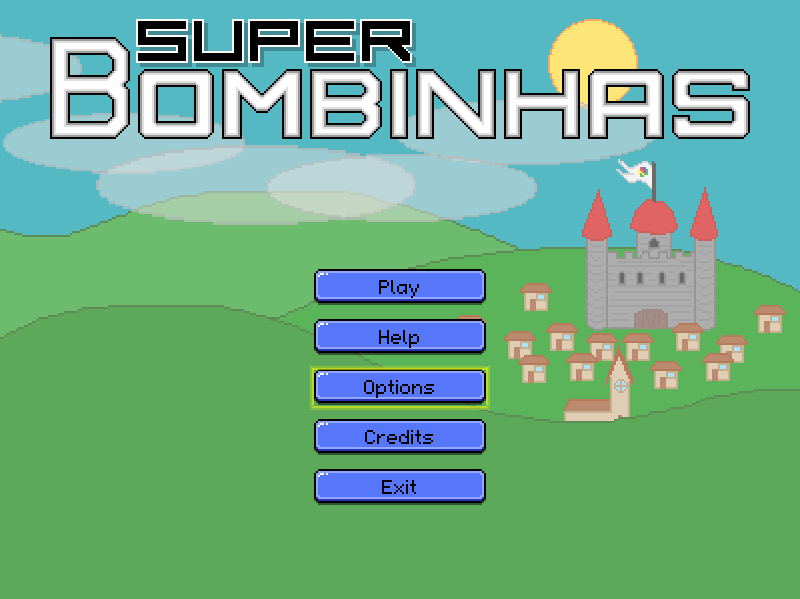
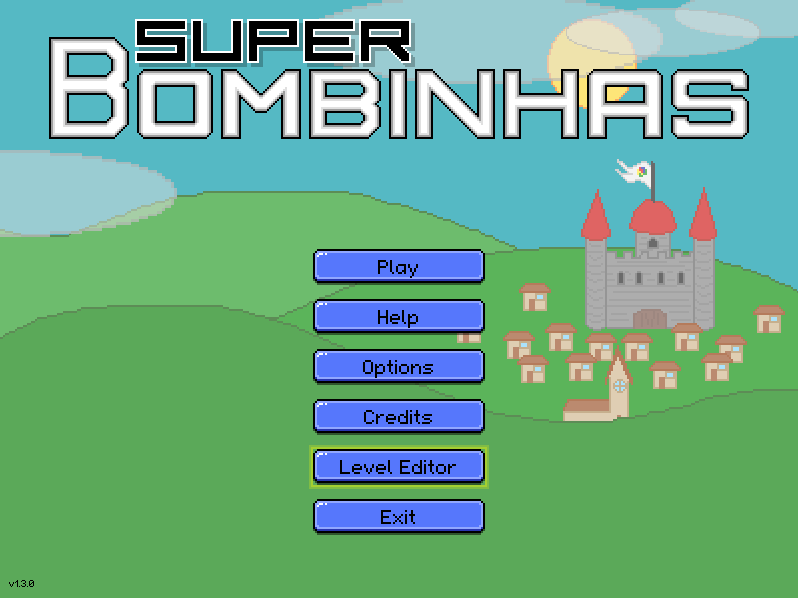
Update screenshots and fix custom levels save path.

diff --git a/editor.rb b/editor.rb
@@ -58,7 +58,7 @@ class EditorStage < Stage
     @entrances = []
     @switches = []
 
-    sections = Dir["#{Res.prefix}stage/#{@world}/#{@num}-*"]
+    sections = Dir["#{SB.save_dir}/levels/#{@num}-*"]
     sections.sort.each_with_index do |s, i|
       content = File.read(s)
       entrances = content.scan(/!\d+/)
@@ -81,7 +81,7 @@ class EditorStage < Stage
 
     @sections = []
     @entrances = []
-    sections = Dir["#{Res.prefix}stage/#{@world}/#{@num}-*"]
+    sections = Dir["#{SB.save_dir}/levels/#{@num}-*"]
     sections.sort.each do |s|
       @sections << Section.new(s, @entrances, @switches, taken_switches, used_switches)
     end
@@ -700,7 +700,7 @@ class Editor
           @section.clear
         end,
         Button.new(x: 441, y: 0, img: :editor_btn1, font: SB.font, text: 'Load', scale_x: 2, scale_y: 2, anchor: :left) do
-          path = "#{Res.prefix}/stage/custom/#{@txt_stage.text}-#{@txt_section.text}"
+          path = "#{SB.save_dir}/levels/#{@txt_stage.text}-#{@txt_section.text}"
           if File.exist? path
             f = File.open(path)
             all = f.readline.chomp.split('#')
@@ -1279,7 +1279,7 @@ END
     end
 
     stage_name ||= @txt_stage.text
-    path = "#{Res.prefix}/stage/custom/#{stage_name}-#{@txt_section.text}"
+    path = "#{SB.save_dir}/levels/#{stage_name}-#{@txt_section.text}"
     will_save = if File.exist? path
                   if @save_confirm
                     true
@@ -1296,7 +1296,7 @@ END
                 end
     if will_save
       @save_confirm = false
-      FileUtils.mkdir_p("#{Res.prefix}/stage/custom")
+      FileUtils.mkdir_p("#{SB.save_dir}/levels")
 
       tiles_x = @section.tiles.size
       tiles_y = @section.tiles[0].size

diff --git a/menu.rb b/menu.rb
@@ -280,7 +280,7 @@ class Menu
       section = @form.section(10)
       section.clear
       section.add(MenuText.new(:select_level, 400, 230, 760, :center))
-      levels = (Dir["data/stage/custom/*"].reduce([]) do |obj, l|
+      levels = (Dir["#{SB.save_dir}/levels/*"].reduce([]) do |obj, l|
         stage = l.split('/')[-1].split('-')[0]
         obj << stage unless obj.include?(stage) || stage == '__temp'
         obj

diff --git a/stage.rb b/stage.rb
@@ -53,7 +53,7 @@ class Stage
 
     @sections = []
     @entrances = []
-    sections = Dir["#{Res.prefix}stage/#{@world}/#{@num}-*"]
+    sections = Dir[@is_custom ? "#{SB.save_dir}/levels/#{@num}-*" : "#{Res.prefix}stage/#{@world}/#{@num}-*"]
     sections.sort.each do |s|
       @sections << Section.new(s, @entrances, @switches, taken_switches, used_switches)
     end
